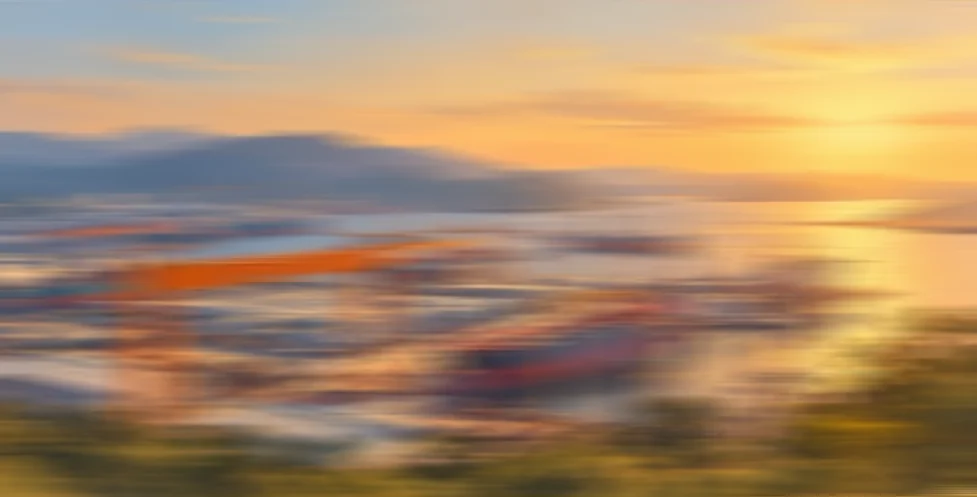
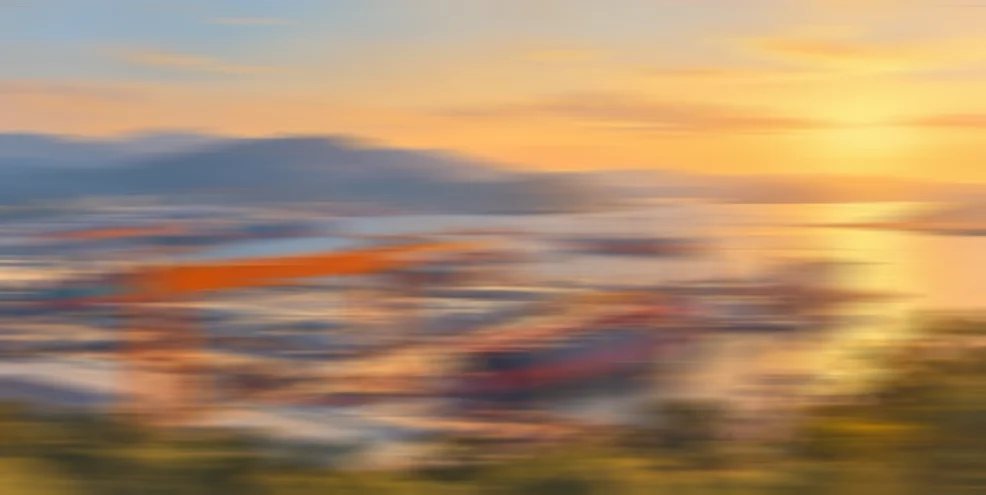
Enlarge explore paper, train-only sound, ticket byline, fix static window edge
The paper now fills most of the screen with a fixed-size curled corner.
Sound starts with Start now and is audible only while the train moves;
the landing sound prompt is removed. Adds the author byline to the ticket.
The scenery crop now covers the full window opening so no strip of the
still image shows beside the right frame while moving.

Claude-Session: https://claude.ai/code/session_01Mo5kLXJTG3bK7jCZMuWqaS

diff --git a/src/App.tsx b/src/App.tsx
@@ -2,14 +2,14 @@ import { useCallback, useEffect, useMemo, useRef, useState, type CSSProperties }
 import { AnimatePresence, motion } from 'motion/react'
 import { chapters, site, type Chapter } from './content'
 import { TrainScene, type TrainHandle } from './TrainScene'
-import { soundOff, soundOn } from './sound'
+import { soundOn } from './sound'
 import './App.css'
 
 type Phase = 'landing' | 'ride' | 'chapter' | 'gift'
 
 const imgUrl = (name: string) => `${import.meta.env.BASE_URL}images/${name}`
 
-function Ticket({ top, title, bottom, note }: { top: string; title: string[]; bottom: string; note?: string }) {
+function Ticket({ top, title, bottom, byline }: { top: string; title: string[]; bottom: string; byline?: string }) {
   return (
     <div className="ticket-wrap">
       <div className="ticket-back" />
@@ -20,7 +20,7 @@ function Ticket({ top, title, bottom, note }: { top: string; title: string[]; bo
           <span className="indent">{title[1]}</span>
         </h1>
         <p className="ticket-small">{bottom}</p>
-        {note && <p className="ticket-note">{note}</p>}
+        {byline && <p className="ticket-byline">{byline}</p>}
       </div>
     </div>
   )
@@ -119,7 +119,9 @@ function ExploreScroll({
                   transition: { ...rollup, times: [0, 0.001, 1] },
                 }}
               >
-                <div className="curl-shadow" />
+                <div className="curl-corner">
+                  <div className="curl-shadow" />
+                </div>
                 <div className="sheet">
                 <motion.div
                   className="sheet-body"
@@ -143,7 +145,7 @@ function ExploreScroll({
                 </motion.div>
                 </div>
                 <motion.div
-                  className="curl-wrap"
+                  className="curl-corner curl-wrap"
                   initial={{ opacity: 0 }}
                   animate={{ opacity: 1, transition: { delay: 0.95, duration: 0.35 } }}
                   exit={{ opacity: 0, transition: { duration: 0.1 } }}
@@ -329,16 +331,8 @@ export default function App() {
   const [isIntro, setIsIntro] = useState(false)
   const [exploring, setExploring] = useState(false)
   const [explored, setExplored] = useState<Set<number>>(new Set())
-  const [sound, setSound] = useState(false)
   const [toast, setToast] = useState(false)
   const allDone = explored.size === chapters.length
-
-  const toggleSound = () => {
-    if (sound) soundOff()
-    else soundOn()
-    setSound(!sound)
-  }
-
   const ride = useCallback(async (lines: string[], tiles: number, ms: number, intro = false) => {
     setExploring(false)
     setRideLines(lines)
@@ -359,6 +353,8 @@ export default function App() {
   )
 
   const start = async () => {
+    // 첫 클릭 때 오디오를 켜 두면, 기차가 달릴 때만 소리가 납니다
+    soundOn()
     await ride(site.introCaptions, 2, 6000, true)
     setCurrent(0)
     setPhase('chapter')
@@ -413,7 +409,7 @@ export default function App() {
             transition={{ duration: 0.6 }}
           >
             <motion.div initial={{ opacity: 0, y: 30 }} animate={{ opacity: 1, y: 0 }} transition={{ duration: 0.8 }}>
-              <Ticket {...site.ticket} />
+              <Ticket {...site.ticket} byline={site.byline} />
             </motion.div>
             <motion.button
               className="start-btn"
@@ -426,18 +422,6 @@ export default function App() {
             >
               Start now
             </motion.button>
-            <button className="sound-hint" onClick={toggleSound} aria-pressed={sound}>
-              <svg viewBox="0 0 24 24" aria-hidden="true">
-                <path
-                  d="M4 15v-3a8 8 0 0 1 16 0v3M4 15h3v5H4zM17 15h3v5h-3z"
-                  fill="none"
-                  stroke="currentColor"
-                  strokeWidth="2"
-                  strokeLinejoin="round"
-                />
-              </svg>
-              {sound ? '소리가 켜져 있어요' : site.soundHint}
-            </button>
           </motion.div>
         )}
 

diff --git a/src/App.css b/src/App.css
@@ -32,10 +32,10 @@
 .window {
   position: absolute;
   left: 20.634%;
-  top: 14.346%;
-  width: 58.433%;
-  height: 52.816%;
-  border-radius: 3.7% / 7.2%;
+  top: 14.134%;
+  width: 58.971%;
+  height: 52.604%;
+  border-radius: 4% / 8%;
   overflow: hidden;
   isolation: isolate;
 }
@@ -184,6 +184,17 @@
   transform: translateX(9%);
 }
 
+.ticket-byline {
+  position: absolute;
+  left: clamp(26px, 3.5vw, 44px);
+  bottom: clamp(12px, 2vw, 18px);
+  margin: 0;
+  font-size: clamp(10px, 1.1vw, 12px);
+  font-weight: 500;
+  letter-spacing: 0.02em;
+  opacity: 0.75;
+}
+
 .start-btn {
   border: none;
   padding: 14px 52px;
@@ -195,25 +206,6 @@
   box-shadow:
     0 0 0 4px rgba(243, 234, 216, 0.35),
     0 10px 24px rgba(0, 0, 0, 0.35);
-}
-
-.sound-hint {
-  position: absolute;
-  bottom: clamp(20px, 5vh, 44px);
-  display: flex;
-  flex-direction: column;
-  align-items: center;
-  gap: 8px;
-  border: none;
-  background: none;
-  font-weight: 700;
-  font-size: clamp(14px, 1.8vw, 20px);
-  text-shadow: 0 2px 8px rgba(0, 0, 0, 0.6);
-}
-
-.sound-hint svg {
-  width: 24px;
-  height: 24px;
 }
 
 /* ---------- 주행 중 ---------- */
@@ -498,19 +490,19 @@
 
 .scroll-rig {
   position: relative;
-  width: min(760px, calc(100vw - 32px));
+  width: min(980px, calc(100vw - 32px));
   height: 100%;
   display: flex;
   flex-direction: column;
   align-items: center;
-  padding-top: clamp(56px, 9vh, 90px);
+  padding-top: clamp(20px, 4vh, 40px);
 }
 
 .sheet-area {
   position: relative;
-  width: min(100%, calc(min(66vh, 640px) * 0.76));
-  aspect-ratio: 0.76;
-  max-width: 100%;
+  width: 100%;
+  height: calc(100% - 150px);
+  min-height: 360px;
 }
 
 .sheet-wrap {
@@ -519,8 +511,20 @@
 }
 
 .sheet-clip {
+  /* 말린 모서리 영역 크기: 종이가 커져도 모서리는 자연스러운 크기로 유지 */
+  --cw: min(64%, 380px);
+  --ch: min(34%, 210px);
   position: absolute;
   inset: 0;
+}
+
+.curl-corner {
+  position: absolute;
+  right: 0;
+  bottom: 0;
+  width: var(--cw);
+  height: var(--ch);
+  pointer-events: none;
 }
 
 /* 흰 종이: 오른쪽 아래 모서리가 살짝 말려 올라간 모양 */
@@ -532,16 +536,16 @@
   background:
     radial-gradient(ellipse 70% 45% at 100% 100%, rgba(0, 0, 0, 0.13), transparent 70%),
     linear-gradient(165deg, #ffffff 55%, #f1f1f1 100%);
-  border-radius: 0 0 72% 0 / 0 0 34% 0;
+  border-bottom-right-radius: var(--cw) var(--ch);
   box-shadow: 0 10px 22px rgba(0, 0, 0, 0.28);
 }
 
 .curl-shadow {
   position: absolute;
-  right: -1%;
-  bottom: 10%;
-  width: 10%;
-  height: 26%;
+  right: -2%;
+  bottom: 28%;
+  width: 14%;
+  height: 72%;
   border-radius: 0 0 60% 0 / 0 0 60% 0;
   background: rgba(0, 0, 0, 0.42);
   filter: blur(12px);
@@ -549,17 +553,15 @@
 
 .curl {
   position: absolute;
-  left: 68%;
-  top: 78%;
-  width: 27%;
-  height: 17%;
+  left: 55.6%;
+  top: 35.3%;
+  width: 37.5%;
+  height: 50%;
   background: linear-gradient(125deg, #b9b9b9 0%, #dedede 35%, #f7f7f7 65%, #ffffff 100%);
   clip-path: polygon(7.4% 44.1%, 29.6% 23.5%, 59.3% 11.8%, 91.5% 17.1%, 82.8% 29.4%, 72.9% 41.3%, 62.0% 52.5%, 50.0% 63.2%, 37.1% 73.3%, 23.3% 82.6%, 13.0% 64.7%);
 }
 
 .curl-wrap {
-  position: absolute;
-  inset: 0;
   filter: drop-shadow(-4px 6px 6px rgba(0, 0, 0, 0.35));
   pointer-events: none;
 }
@@ -567,7 +569,7 @@
 .sheet-body {
   height: 100%;
   overflow-y: auto;
-  padding: clamp(32px, 6vh, 52px) clamp(22px, 4vw, 44px) 28%;
+  padding: clamp(32px, 6vh, 56px) clamp(22px, 5vw, 64px) clamp(90px, 18%, 160px);
 }
 
 .sheet-count {
@@ -621,7 +623,7 @@
 }
 
 .scroll-controls {
-  margin-top: 30px;
+  margin-top: 22px;
   display: flex;
   align-items: center;
   gap: 16px;
@@ -719,15 +721,17 @@
 }
 
 @media (max-width: 640px) {
+  .ticket {
+    padding-bottom: 46px;
+  }
+
   .badge {
     top: 14px;
     left: 14px;
     padding: 8px 12px 6px;
   }
 
-      .sound-hint {
-    bottom: 84px;
-  }
+    
 
   .chapter-numeral {
     font-size: 60vmin;

diff --git a/src/sound.ts b/src/sound.ts
@@ -1,4 +1,5 @@
 // 음원 파일 없이 Web Audio로 만든 기차 주행음 (낮은 진동음 + 레일 이음새 소리)
+// 기차가 멈춰 있을 때(speed 0)는 소리가 나지 않습니다
 
 let ctx: AudioContext | null = null
 let master: GainNode | null = null
@@ -66,7 +67,7 @@ export function soundOn() {
     lp.type = 'lowpass'
     lp.frequency.value = 220
     rumble = ctx.createGain()
-    rumble.gain.value = 0.15
+    rumble.gain.value = 0
     src.connect(lp).connect(rumble).connect(master)
     src.start()
   }
@@ -85,5 +86,5 @@ export function soundOff() {
 // 0(정차) ~ 1(최고 속도)
 export function setTrainSpeed(v: number) {
   speed = v
-  if (ctx && rumble) rumble.gain.setTargetAtTime(0.15 + v * 0.5, ctx.currentTime, 0.1)
+  if (ctx && rumble) rumble.gain.setTargetAtTime(v * 0.6, ctx.currentTime, 0.15)
 }

diff --git a/src/content.ts b/src/content.ts
@@ -27,7 +27,7 @@ export const site = {
   badgeBottom: 'JOURNEY',
   badgeSub: 'MY OJT LOG',
   ticket: { top: 'THE', title: ['OCEAN', 'JOURNEY'], bottom: 'BEGINS' },
-  soundHint: '소리를 켜면 더 생생하게 즐길 수 있어요.',
+  byline: 'by. 기업문화혁신팀 신현주 사원',
   introCaptions: [
     '하나의 여정, 세 개의 정거장.',
     '한화오션에 입사한 날부터 지금까지,',
